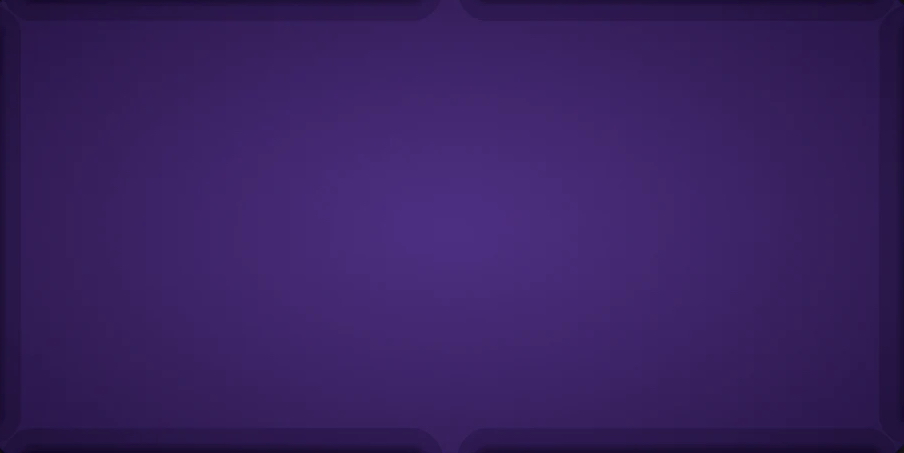
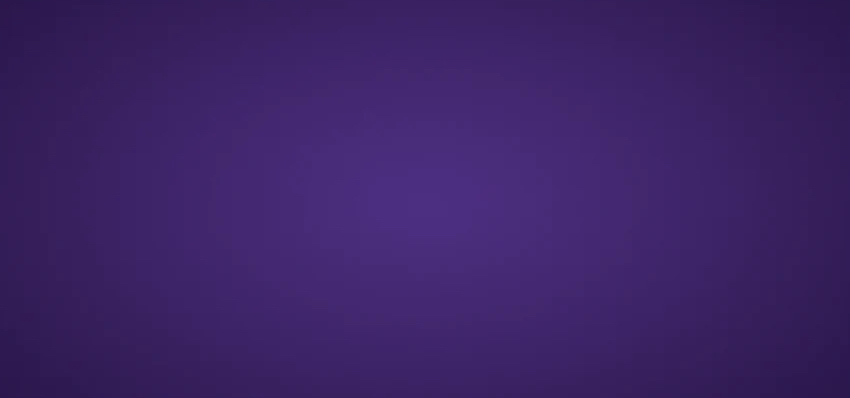
added css changes

diff --git a/style.css b/style.css
@@ -1,26 +1,47 @@
-* {
-    margin: 0;
-    padding: 0;
-    box-sizing: border-box;
-    background-image:url("./fabric.jpg");
-  
+body, html {
+  height: 100%;
+  margin: 0;
+  font-family: Arial, Helvetica, sans-serif;
 }
 
-#main {
-    padding: 60px 10% 110px 10%; 
-    background-image:url("./fabric.jpg");
-    background-position: center; 
-    background-repeat: repeat; 
-    background-size: cover; 
-    width: 100%;
-    height: 100%;
-    border: 5px solid rgb(111,41,97);
-    display: grid;
-    grid-template-columns: repeat(4, 1fr);
-    grid-template-rows: repeat(4, 1fr);
-    margin-bottom: -19px;
-  }
+* {
+  box-sizing: border-box;
+}
 
+.bg-image {
+  background-image: url("fabric.jpg");
+  
+  /* Add the blur effect */
+  filter: blur(2px);
+  -webkit-filter: blur(2px);
+  height: 100%; 
+  width: 100%;
+  /* Center and scale the image nicely */
+  background-position: center;
+  background-repeat: no-repeat;
+  background-size: cover;
+  border: 5px solid rgb(111,41,97);
+}
+
+/* Position text in the middle of the page/image */
+.main {
+  color: white;
+  font-weight: bold;
+  position: absolute;
+  top: 50%;
+  left: 50%;
+  transform: translate(-50%, -50%);
+  z-index: 2;
+  padding: 45px 0 60px 0;
+  text-align: center;
+  width: 80%;
+  height: 100%;
+  display: grid;
+  grid-template-columns: repeat(4, 1fr);
+  grid-template-rows: repeat(4, 1fr);
+  gap: 10px 10px;
+  
+}
 img {
   width: 320px;
   height: 252px;
@@ -28,16 +49,13 @@ img {
 }
 
 .grid-item {
-  border: 1px solid rgb(235, 108, 210);
+  border: 1px solid rgb(183, 117, 170);
   display: flex;
   justify-content: center;
   align-items: center;
-  margin-top: 15px;
   width: 320px;
   height: 252px;
   box-shadow: 5px 5px 5px rgb(160, 154, 162);
-
-  
   }
 
 .is-flipped{

diff --git a/index.html b/index.html
@@ -13,7 +13,8 @@
     <!-- clicking on two identical cards, keeps them revealed -->
     <!--  end games when user finds all card pairs-->
     <!-- <h3 id = 'attempts'>Attempts:</h3> -->
-    <div id="main">
+    <div class="bg-image"></div>
+    <div class = "main">
     <div class="grid-item"><img class ="1" src="./cardSkin.jpg"/></div>
     <div class="grid-item"><img class= "2" src="./cardSkin.jpg"/></div>
     <div class="grid-item"><img class = "3" src="./cardSkin.jpg"/></div>
